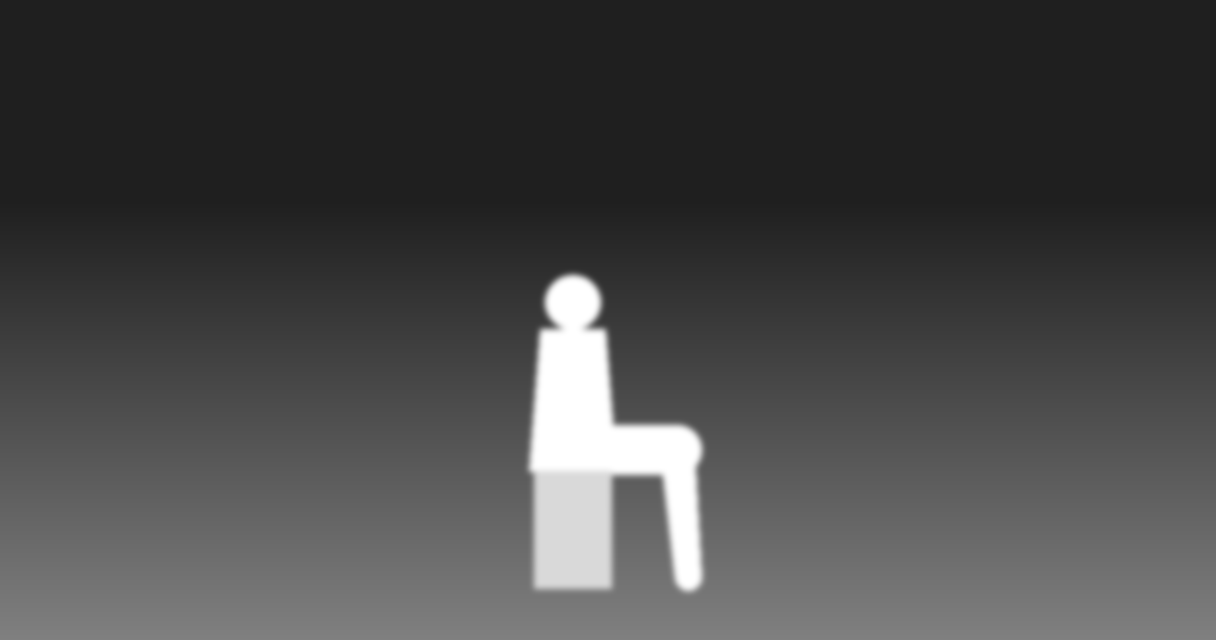
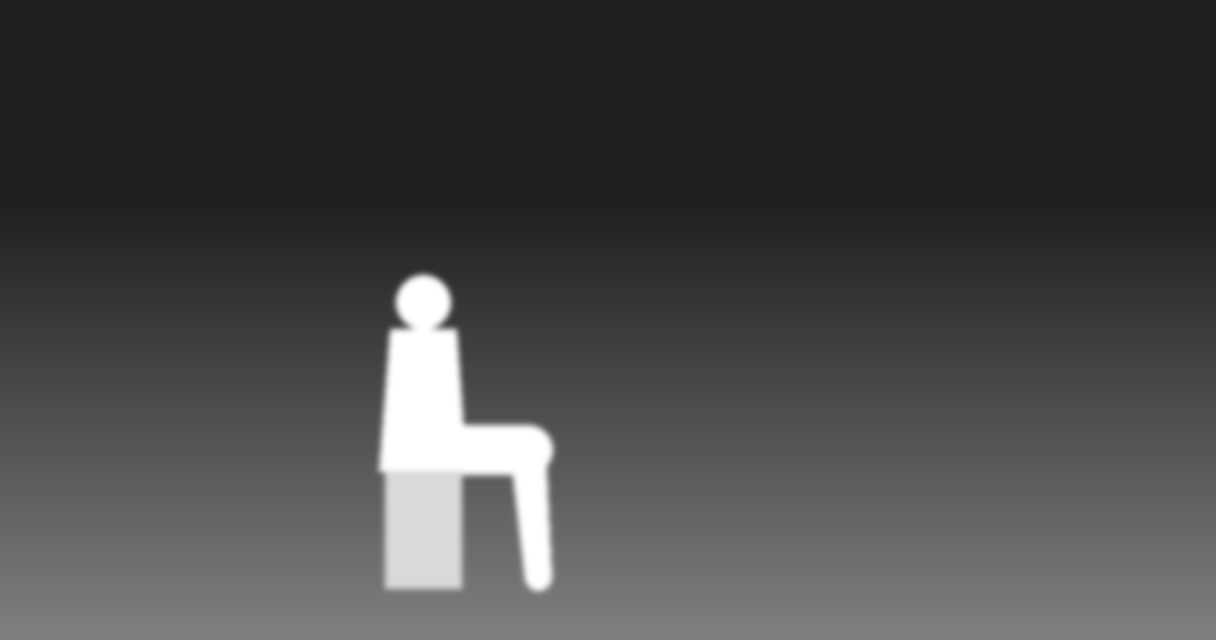
feat(canon): task 424 ① 규칙 spec.solo-off-center — 홀로 있는 인물은 가운데 말고 3분의 1 · 곁 장면 자르기는 명세 구도대로
- 무리 없이 홀로 있는 인물은 가로 가운데(0.4~0.6) 금지 — 가운데 정면 홀로 아기를 안은 구도가 성모자상 후광을 부름(후광 없음 4/8 두 번)
- 출생 곁 장면 밧세바 구역 0.38~0.62 → 0.257~0.497(보이는 폭의 왼쪽 3분의 1, 오른쪽을 봄) · 자리 낱말 On the left
- inset_try.inset_x0: 틀 가운데 기준으로 자름(인물 가운데 기준이면 비킨 구역도 다시 가운데)
- 시험 2 · 재검 solo-off-center 38/38 · 전 규칙 통과 5/38 그대로

Claude-Session: https://claude.ai/code/session_017xfXg4nsVPZYcUmVMvn4aM

Changed region(s): [[0.3125, 0.4062, 0.5938, 0.9375]]

diff --git a/scripts/canon/recheck.py b/scripts/canon/recheck.py
@@ -433,6 +433,20 @@ def _holds_person(f):
     return h.get("mode") == "hug" and bool(h.get("person"))
 
 
+SOLO_MID = (0.4, 0.6)   # derive_scene._side의 「in the center」 범위와 같음
+
+
+def solo_center_errors(spec):
+    """홀로 있는 인물은 가운데 말고(task 424, 규칙 spec.solo-off-center) — 무리 없이 인물 하나인 명세는 그 구역 가로 가운데가 SOLO_MID 밖.
+    출생 곁 장면: 방 한가운데 홀로 앉아 아기를 가슴에 안은 정면 구도가 성모자상 후광을 부름(후광 없음 4/8 — 가이드 빈자리를 채워도 남음)."""
+    figs = spec.get("figures") or []
+    if len(figs) != 1 or spec.get("crowds"):
+        return []
+    r = spec["regions"][figs[0]["region"]]
+    cx = (r[0] + r[2]) / 2
+    return [f"{figs[0]['region']}: 홀로 있는 인물이 화면 가운데({cx:.2f}) — 보는 쪽 반대편 3분의 1로(가운데 정면 홀로는 성모자상 같은 도상을 부름)"] if SOLO_MID[0] <= cx <= SOLO_MID[1] else []
+
+
 def pose_only_errors(spec):
     """뼈대 가이드는 뼈대만(task 404 g1, 규칙 generate.pose-only-control) — guide.pose가 있으면 guide.control이 "pose"여야 함(깊이 그림을 섞지 않음).
     진단 P1·P2(gibeah-pose-diag): 깊이+뼈대 한 장은 깊이 실루엣을 선 사람으로 그려 뼈대(기운 몸통·든 뒷발)가 약하고, 숙인 다윗 깊이 꼴도 선 채로."""
@@ -690,6 +704,7 @@ SPEC_CHECKS = {
     "recheck.seated_height_errors": lambda spec, ctx: seated_height_errors(spec),
     "recheck.pose_hold_errors": lambda spec, ctx: pose_hold_errors(spec),
     "recheck.inset_errors": lambda spec, ctx: inset_errors(spec),
+    "recheck.solo_center_errors": lambda spec, ctx: solo_center_errors(spec),
     "recheck.pose_only_errors": lambda spec, ctx: pose_only_errors(spec),
     "recheck.split_control_errors": lambda spec, ctx: split_control_errors(spec),
     "recheck.prop_size_errors": lambda spec, ctx: prop_size_errors(spec),

diff --git a/scripts/canon/test_scene_rules.py b/scripts/canon/test_scene_rules.py
@@ -1196,6 +1196,30 @@ class PoseHoldGesture(unittest.TestCase):
         self.assertLess(h.getpixel((int((a0 + a1) / 2 * M.W) + 3, int((b0 + 0.6 * (b1 - b0)) * M.H))), 120)
 
 
+class SoloOffCenter(unittest.TestCase):
+    """spec.solo-off-center(task 424) — 무리 없이 홀로 있는 인물은 가로 가운데(0.4~0.6) 말고 · 곁 장면 자르기는 명세 구도를 지킴."""
+
+    def test_centered_solo_fails(self):
+        import derive_scene as ds
+        s = copy.deepcopy(ds.load("authored-solomon-jerusalem-birth-inset"))
+        self.assertEqual(recheck.solo_center_errors(s), [])
+        s["regions"]["bathsheba"] = [0.38, 0.43, 0.62, 0.92]
+        self.assertTrue(recheck.solo_center_errors(s))
+        s["crowds"] = [{"id": "x"}]
+        self.assertEqual(recheck.solo_center_errors(s), [])
+
+    def test_inset_crop_keeps_left_third(self):
+        """자른 곁 그림에서도 밧세바(오른쪽을 봄)가 왼쪽 3분의 1 — 인물 가운데로 자르면 다시 가운데(0.5)."""
+        import sys
+        import derive_scene as ds
+        sys.path.insert(0, os.path.join(HERE, "batch"))
+        import inset_try as B
+        w = B.inset_w(ds.load("authored-solomon-jerusalem-birth"))
+        r = ds.load("authored-solomon-jerusalem-birth-inset")["regions"]["bathsheba"]
+        rel = ((r[0] + r[2]) / 2 * B.W - B.inset_x0(w)) / w
+        self.assertLess(abs(rel - 1 / 3), 0.02)
+
+
 class SitFacing(unittest.TestCase):
     """task 417 — make_guide sit 꼴은 인물 screen_facing을 따름(오른쪽이면 상자 안 좌우 대칭)."""
 

diff --git a/scripts/canon/batch/inset_try.py b/scripts/canon/batch/inset_try.py
@@ -51,9 +51,7 @@ def gen():
         w = W
         if sid == sub:   # 곁 장면은 구름 틀 비율로 그림 — 넓은 화면에 앉은 한 사람이면 빈자리에 다른 사람을 그려 넣음(s42 곁에 선 여인, 문구를 바꿔도 남음)
             w = inset_w(spec)
-            rs = [r for k, r in D.load(sid)["regions"].items() if k != "full"]
-            cx = sum((r[0] + r[2]) / 2 for r in rs) / len(rs) * W   # 인물 구역 가운데를 중심으로 자름(출생 곁 장면은 0.5 — 전과 같음)
-            x0 = min(max(0, round(cx - w / 2)), W - w)
+            x0 = inset_x0(w)
             # make_guide sit 꼴이 screen_facing을 따름(task 417 — 전엔 여기서 좌우를 뒤집음) · 스텝별 두 장도 같이 자름(task 424 — 곁 장면 뼈대)
             guides = [_crop(g, x0, w) for g in guides]
         cn = {"control": guides[0], **CN}
@@ -70,6 +68,11 @@ def _crop(path, x0, w):
     out = os.path.join(OUT, f"_{os.path.basename(path)[:-4]}-flip-{w}.png")
     Image.open(path).convert("RGB").crop((x0, 0, x0 + w, H)).save(out)
     return out
+
+
+def inset_x0(w):
+    """곁 장면 가이드를 자를 왼끝 — 틀 가운데를 중심으로, 명세 구도(인물 자리)를 지킴(task 424: 인물 가운데 기준이면 비킨 구역도 다시 가운데로 · 규칙 spec.solo-off-center)."""
+    return round((W - w) / 2)
 
 
 def inset_w(spec):

diff --git a/scripts/canon/notes/RECHECK.md b/scripts/canon/notes/RECHECK.md
@@ -12,7 +12,7 @@
 ## 명세 재검 — 전 명세 × 명세·파생 함수 규칙
 
 <!-- recheck:specs:begin -->
-원장 판 `a7d77218da31` · 토큰 검사 venv314 · 명세 38
+원장 판 `78d1dfd7d8cd` · 토큰 검사 venv314 · 명세 38
 
 | 규칙 | 층 | 원래 범위 | 통과 | 실패 | 못 잼 | 통과율 |
 |---|---|---|---|---|---|---|
@@ -53,52 +53,53 @@
 | `derive.held-hold` | derive | all | 38 | 0 | 0 | 100% |
 | `derive.crowd-stage` | derive | all | 37 | 1 | 0 | 97% |
 | `generate.eye-level-perspective` | generate | all | 18 | 0 | 20 | 100% |
+| `spec.solo-off-center` | spec | all | 38 | 0 | 0 | 100% |
 | `spec.inset` | spec | all | 38 | 0 | 0 | 100% |
 
 폐기 규칙(재검·통과율에서 뺌): `derive.clip-77-tokens` — 2026-10-22 사람 결정 — SDXL 단계별 경로 전용, 지금 생성 경로는 derive.512-tokens가 잼 · `generate.pose-throw-geometry` — 2026-10-23 d3 — 한 장(c14 s5) 근거로 만든 규칙: d1 「달리는 자세」·d2 「늘어진 팔」로 반증, c10 뼈대가 묶음 기록상 가장 좋음(던진 몸짓 3/8). 결함을 규칙으로 옮기기 전에 같은 조건에서 맞게 나온 적이 있는지 기록부터 볼 것 · `generate.pose-only-control` — 2026-10-23 g2e — 진단은 맞음(뼈대만이면 몸짓이 살아 다윗 숙임·사울 기욺)이나 맞바꿈: 몸 덩어리·벽 자리·수금 모양을 잃고 액자(g1e 다수결 틀림 6 · g2e 15 vs 섞은 f6e3 2). 깊이+뼈대 섞기 유지, make_pose_only·duck_low는 남김 · `generate.spear-two-thirds` — 2026-10-23 m5 — generate.flight-position(명세 칸 guide.flight + 사전 크기)로 일반화(사람 「지적한거 그대로 일회성으로 쓰지말고 규칙화」)
 
-**전 규칙 통과 명세 5/38** · 칸 통과 1207/1333 (91%)
+**전 규칙 통과 명세 5/38** · 칸 통과 1245/1371 (91%)
 
-| 명세 | required-fields | whole-fields | verse-elements | no-compromise-words | scene-all-verses | cast-card-v2 | lexicon-link | no-hand-prompt | no-bare-head | prop-in-prompt | 512-tokens | stage-from-scripture | action-place-on-figure | thrown-guide | guide-backdrop | guide-body-build | dodge-clear | guide-costume-legs | youth-noun | pose-skeleton | figure-scale | no-second-point | youth-height | height-ratio | seated-height | pose-hold | split-control | prop-size-relative | flight-position | flight-height | empty-hand-open | wall-material | no-inflating-build | prop-size-coverage | held-hold | crowd-stage | eye-level-perspective | inset |
-|---|---|---|---|---|---|---|---|---|---|---|---|---|---|---|---|---|---|---|---|---|---|---|---|---|---|---|---|---|---|---|---|---|---|---|---|---|---|---|
-| david-adullam-cave | ✅ | ✗ | ✗ | ✅ | ✗ | ✅ | – | ✅ | ✅ | ✅ | ✅ | ✗ | – | ✅ | ✅ | ✅ | ✅ | ✅ | ✅ | ✅ | – | ✅ | ✅ | ✅ | ✅ | ✅ | ✅ | ✅ | ✅ | ✅ | ✅ | ✅ | ✅ | ✅ | ✅ | ✗ | – | ✅ |
-| david-ark-jerusalem | ✅ | ✗ | ✅ | ✅ | ✗ | ✅ | ✗ | ✅ | ✅ | ✅ | ✅ | ✗ | ✅ | ✅ | ✅ | ✅ | ✅ | ✅ | ✅ | ✅ | – | ✅ | ✅ | ✅ | ✅ | ✅ | ✅ | ✅ | ✅ | ✅ | ✅ | ✅ | ✅ | ✅ | ✅ | ✅ | – | ✅ |
-| david-en-gedi-saul | ✅ | ✅ | ✗ | ✅ | ✗ | ✅ | – | ✅ | ✅ | ✅ | ✅ | ✗ | – | ✅ | ✅ | ✅ | ✅ | ✅ | ✅ | ✅ | – | ✅ | ✅ | – | ✅ | ✅ | ✅ | ✅ | ✅ | ✅ | ✅ | ✅ | ✗ | ✅ | ✅ | ✅ | – | ✅ |
-| david-gath-achish | ✅ | ✅ | ✅ | ✅ | ✗ | ✅ | ✅ | ✅ | ✅ | ✅ | ✅ | ✗ | ✅ | ✅ | ✅ | ✅ | ✅ | ✅ | ✅ | ✅ | – | ✅ | ✅ | – | ✅ | ✅ | ✅ | ✅ | ✅ | ✅ | ✅ | ✅ | ✅ | ✅ | ✅ | ✅ | ✅ | ✅ |
-| david-gibeah-harp | ✅ | ✅ | ✅ | ✅ | ✅ | ✅ | ✅ | ✅ | ✅ | ✅ | ✅ | ✅ | ✅ | ✅ | ✅ | ✅ | ✅ | ✅ | ✅ | ✅ | ✅ | ✅ | ✅ | ✅ | ✅ | ✅ | ✅ | ✅ | ✅ | ✅ | ✅ | ✅ | ✅ | ✅ | ✅ | ✅ | ✅ | ✅ |
-| david-gibeon-battle | ✅ | ✗ | ✅ | ✅ | ✗ | ✅ | ✅ | ✅ | ✅ | ✅ | ✅ | ✗ | ✅ | ✅ | ✅ | ✅ | ✅ | ✅ | ✅ | ✅ | – | ✅ | ✅ | – | ✅ | ✅ | ✅ | ✅ | ✅ | ✅ | ✅ | ✅ | ✅ | ✅ | ✅ | ✅ | – | ✅ |
-| david-goliath-gath | ✅ | ✅ | ✗ | ✅ | ✗ | ✅ | – | ✅ | ✅ | ✗ | ✅ | ✗ | – | ✅ | ✅ | ✅ | ✅ | ✅ | ✅ | ✅ | – | ✅ | – | – | ✅ | ✅ | ✅ | ✅ | ✅ | ✅ | ✅ | ✅ | ✅ | ✅ | ✅ | ✅ | – | ✅ |
-| david-hebron-king-judah | ✅ | ✗ | ✅ | ✅ | ✗ | ✅ | ✅ | ✅ | ✅ | ✅ | ✅ | ✗ | ✅ | ✅ | ✅ | ✅ | ✅ | ✅ | ✅ | ✅ | – | ✅ | ✅ | ✅ | ✅ | ✅ | ✅ | ✅ | ✅ | ✅ | ✅ | ✅ | ✅ | ✅ | ✅ | ✅ | – | ✅ |
-| david-jerusalem-conquest | ✅ | ✗ | ✅ | ✅ | ✗ | ✅ | ✅ | ✅ | ✅ | ✅ | ✅ | ✗ | ✅ | ✅ | ✅ | ✅ | ✅ | ✅ | ✅ | ✅ | – | ✅ | ✅ | ✅ | ✅ | ✅ | ✅ | ✅ | ✅ | ✅ | ✅ | ✅ | ✗ | ✅ | ✅ | ✅ | – | ✅ |
-| david-mahanaim-exile | ✅ | ✗ | ✅ | ✅ | ✗ | ✅ | ✅ | ✅ | ✅ | ✅ | ✅ | ✗ | ✅ | ✅ | ✅ | ✅ | ✅ | ✅ | ✅ | ✅ | – | ✅ | ✅ | ✅ | ✅ | ✅ | ✅ | ✅ | ✅ | ✅ | ✅ | ✅ | ✅ | ✅ | ✅ | ✅ | – | ✅ |
-| david-nathan-covenant | ✅ | ✗ | ✅ | ✅ | ✗ | ✅ | ✅ | ✅ | ✅ | ✅ | ✅ | ✗ | ✅ | ✅ | ✅ | ✅ | ✅ | ✅ | ✅ | ✅ | – | ✅ | ✅ | – | ✅ | ✅ | ✅ | ✅ | ✅ | ✅ | ✅ | ✅ | ✅ | ✅ | ✅ | ✅ | ✅ | ✅ |
-| david-nob-priests | ✅ | ✅ | ✅ | ✅ | ✗ | ✅ | ✗ | ✅ | ✅ | ✅ | ✅ | ✗ | ✅ | ✅ | ✅ | ✅ | ✅ | ✅ | ✅ | ✅ | – | ✅ | ✅ | – | ✅ | ✅ | ✅ | ✗ | ✅ | ✅ | ✅ | ✅ | ✗ | ✅ | ✅ | ✅ | ✅ | ✅ |
-| david-ramah-samuel | ✅ | ✅ | ✅ | ✅ | ✗ | ✅ | ✅ | ✅ | ✅ | ✅ | ✅ | ✗ | ✅ | ✅ | ✅ | ✅ | ✅ | ✅ | ✅ | ✅ | – | ✅ | ✅ | – | ✅ | ✅ | ✅ | ✅ | ✅ | ✅ | ✅ | ✅ | ✅ | ✅ | ✅ | ✅ | ✅ | ✅ |
-| david-returns-jerusalem | ✅ | ✅ | ✅ | ✅ | ✅ | ✅ | ✅ | ✅ | ✅ | ✅ | ✅ | ✗ | ✅ | ✅ | ✅ | ✗ | ✅ | ✅ | ✅ | ✅ | ✅ | ✅ | ✅ | ✅ | ✅ | ✅ | ✅ | ✗ | ✅ | ✅ | ✅ | ✅ | ✅ | ✅ | ✅ | ✅ | ✅ | ✅ |
-| david-ziklag-base | ✅ | ✗ | ✅ | ✅ | ✗ | ✅ | ✅ | ✅ | ✅ | ✅ | ✅ | ✗ | ✅ | ✅ | ✅ | ✅ | ✅ | ✅ | ✅ | ✅ | – | ✅ | ✅ | – | ✅ | ✅ | ✅ | ✅ | ✅ | ✅ | ✅ | ✅ | ✅ | ✅ | ✅ | ✅ | ✅ | ✅ |
-| samuel-bethlehem-david-anointing | ✅ | ✗ | ✅ | ✅ | ✗ | ✅ | ✗ | ✅ | ✅ | ✅ | ✅ | ✗ | ✅ | ✅ | ✅ | ✅ | ✅ | ✅ | ✅ | ✅ | – | ✅ | – | – | ✅ | ✅ | ✅ | ✗ | ✅ | ✅ | ✅ | ✅ | ✅ | ✅ | ✅ | ✅ | – | ✅ |
-| samuel-ramah-death | ✅ | ✅ | ✗ | ✅ | ✗ | ✅ | – | ✅ | ✅ | ✅ | ✅ | ✗ | – | ✅ | ✅ | ✅ | ✅ | ✅ | ✅ | ✅ | – | ✅ | ✅ | ✅ | ✅ | ✅ | ✅ | ✅ | ✅ | ✅ | ✅ | ✅ | ✅ | ✅ | ✅ | ✅ | – | ✅ |
-| saul-endor-medium | ✅ | ✗ | ✅ | ✅ | ✗ | ✅ | ✅ | ✅ | ✅ | ✅ | ✅ | ✗ | ✅ | ✅ | ✅ | ✅ | ✅ | ✅ | ✅ | ✅ | – | ✅ | ✅ | – | ✅ | ✅ | ✅ | ✅ | ✅ | ✅ | ✅ | ✅ | ✅ | ✅ | ✅ | ✅ | – | ✅ |
-| saul-gibeah-spear | ✅ | ✅ | ✅ | ✅ | ✅ | ✅ | ✅ | ✅ | ✅ | ✅ | ✅ | ✅ | ✅ | ✅ | ✅ | ✅ | ✅ | ✅ | ✅ | ✅ | ✅ | ✅ | ✅ | ✅ | ✅ | ✅ | ✅ | ✅ | ✅ | ✅ | ✅ | ✅ | ✅ | ✅ | ✅ | ✅ | ✅ | ✅ |
-| saul-gilboa-death | ✅ | ✗ | ✅ | ✅ | ✗ | ✅ | ✅ | ✅ | ✅ | ✅ | ✅ | ✗ | ✅ | ✅ | ✅ | ✅ | ✅ | ✅ | ✅ | ✅ | – | ✅ | ✅ | – | ✅ | ✅ | ✅ | ✅ | ✅ | ✅ | ✅ | ✅ | ✅ | ✅ | ✅ | ✅ | – | ✅ |
-| saul-gilgal-amalek | ✅ | ✅ | ✗ | ✅ | ✗ | ✅ | – | ✅ | ✅ | ✅ | ✅ | ✗ | – | ✅ | ✅ | ✅ | ✅ | ✅ | ✅ | ✅ | – | ✅ | ✅ | – | ✅ | ✅ | ✅ | ✅ | ✅ | ✅ | ✅ | ✅ | ✗ | ✅ | ✅ | ✅ | ✅ | ✅ |
-| saul-gilgal-coronation | ✅ | ✅ | ✗ | ✅ | ✗ | ✅ | – | ✅ | ✅ | ✅ | ✅ | ✗ | – | ✅ | ✅ | ✅ | ✅ | ✅ | ✅ | ✅ | – | ✅ | ✅ | – | ✅ | ✅ | ✅ | ✅ | ✅ | ✅ | ✅ | ✅ | ✗ | ✅ | ✅ | ✅ | – | ✅ |
-| saul-jabesh-rescue | ✅ | ✅ | ✗ | ✅ | ✗ | ✅ | – | ✅ | ✅ | ✅ | ✅ | ✗ | – | ✅ | ✅ | ✅ | ✅ | ✅ | ✅ | ✅ | – | ✅ | ✅ | ✅ | ✅ | ✅ | ✅ | ✅ | ✅ | ✅ | ✅ | ✅ | ✗ | ✅ | ✅ | ✅ | – | ✅ |
-| saul-michmash-battle | ✅ | ✗ | ✗ | ✅ | ✗ | ✅ | – | ✅ | ✅ | ✅ | ✅ | ✗ | – | ✅ | ✅ | ✅ | ✅ | ✅ | ✅ | ✅ | – | ✅ | ✅ | – | ✅ | ✅ | ✅ | ✅ | ✅ | ✅ | ✅ | ✅ | ✗ | ✅ | ✅ | ✅ | – | ✅ |
-| saul-mizpah-chosen | ✅ | ✗ | ✗ | ✅ | ✗ | ✅ | – | ✅ | ✅ | ✅ | ✅ | ✗ | – | ✅ | ✅ | ✅ | ✅ | ✅ | ✅ | ✅ | – | ✅ | ✅ | – | ✅ | ✅ | ✅ | ✅ | ✅ | ✅ | ✅ | ✅ | ✗ | ✅ | ✅ | ✅ | – | ✅ |
-| saul-nob-massacre | ✅ | ✅ | ✗ | ✅ | ✗ | ✅ | – | ✅ | ✅ | ✅ | ✅ | ✗ | – | ✅ | ✅ | ✅ | ✅ | ✅ | ✅ | ✅ | – | ✅ | ✅ | – | ✅ | ✅ | ✅ | ✅ | ✅ | ✅ | ✅ | ✅ | ✗ | ✅ | ✅ | ✅ | ✅ | ✅ |
-| solomon-ezion-geber-fleet | ✅ | ✗ | ✗ | ✅ | ✗ | ✅ | – | ✅ | ✅ | ✗ | ✅ | ✗ | – | ✅ | ✅ | ✅ | ✅ | ✅ | ✅ | ✅ | – | ✅ | ✅ | ✅ | ✅ | ✅ | ✅ | ✅ | ✅ | ✅ | ✅ | ✅ | ✅ | ✅ | ✅ | ✅ | ✅ | ✅ |
-| solomon-gibeon-dream | ✅ | ✗ | ✗ | ✅ | ✗ | ✅ | – | ✅ | ✅ | ✗ | ✅ | ✗ | – | ✅ | ✅ | ✅ | ✅ | ✅ | ✅ | ✅ | – | ✅ | ✅ | ✅ | ✅ | ✅ | ✅ | ✅ | ✅ | ✅ | ✅ | ✅ | ✅ | ✅ | ✅ | ✅ | ✅ | ✅ |
-| solomon-gihon-anointing | ✅ | ✗ | ✗ | ✅ | ✗ | ✅ | – | ✅ | ✅ | ✅ | ✅ | ✗ | – | ✅ | ✅ | ✅ | ✅ | ✅ | ✅ | ✅ | – | ✅ | ✅ | – | ✅ | ✅ | ✅ | ✅ | ✅ | ✅ | ✅ | ✅ | ✅ | ✅ | ✅ | ✅ | – | ✅ |
-| solomon-jerusalem-apostasy | ✅ | ✅ | ✗ | ✅ | ✅ | ✅ | – | ✅ | ✅ | ✅ | ✅ | ✗ | – | ✅ | ✅ | ✅ | ✅ | ✅ | ✅ | ✅ | – | ✅ | ✅ | ✅ | ✅ | ✅ | ✅ | ✅ | ✅ | ✅ | ✅ | ✅ | ✅ | ✅ | ✅ | ✅ | – | ✅ |
-| solomon-jerusalem-birth | ✅ | ✅ | ✅ | ✅ | ✅ | ✅ | ✅ | ✅ | ✅ | ✅ | ✅ | ✅ | ✅ | ✅ | ✅ | ✅ | ✅ | ✅ | ✅ | ✅ | ✅ | ✅ | ✅ | ✅ | ✅ | ✅ | ✅ | ✅ | ✅ | ✅ | ✅ | ✅ | ✅ | ✅ | ✅ | ✅ | ✅ | ✅ |
-| solomon-jerusalem-birth-inset | ✅ | ✅ | ✅ | ✅ | ✅ | ✅ | ✅ | ✅ | ✅ | ✅ | ✅ | ✅ | ✅ | ✅ | ✅ | ✅ | ✅ | ✅ | ✅ | ✅ | ✅ | ✅ | ✅ | ✅ | ✅ | ✅ | ✅ | ✅ | ✅ | ✅ | ✅ | ✅ | ✅ | ✅ | ✅ | ✅ | ✅ | ✅ |
-| solomon-jerusalem-david-charge | ✅ | ✗ | ✗ | ✅ | ✗ | ✅ | – | ✅ | ✅ | ✗ | ✅ | ✗ | – | ✅ | ✅ | ✅ | ✅ | ✅ | ✅ | ✅ | – | ✅ | ✅ | – | ✅ | ✅ | ✅ | ✅ | ✅ | ✅ | ✅ | ✅ | ✅ | ✅ | ✅ | ✅ | ✅ | ✅ |
-| solomon-jerusalem-palace | ✅ | ✗ | ✗ | ✅ | ✗ | ✅ | – | ✅ | ✅ | ✗ | ✅ | ✗ | – | ✅ | ✅ | ✅ | ✅ | ✅ | ✅ | ✅ | – | ✅ | ✅ | ✅ | ✅ | ✅ | ✅ | ✅ | ✅ | ✅ | ✅ | ✅ | ✅ | ✅ | ✅ | ✅ | ✅ | ✅ |
-| solomon-jerusalem-sheba | ✅ | ✗ | ✗ | ✅ | ✗ | ✅ | – | ✅ | ✅ | ✗ | ✅ | ✗ | – | ✅ | ✅ | ✅ | ✅ | ✅ | ✅ | ✅ | – | ✅ | ✅ | – | ✅ | ✅ | ✅ | ✅ | ✅ | ✅ | ✅ | ✅ | ✅ | ✅ | ✅ | ✅ | ✅ | ✅ |
-| solomon-jerusalem-temple-build | ✅ | ✅ | ✗ | ✅ | ✅ | ✅ | – | ✅ | ✅ | ✅ | ✅ | ✗ | – | ✅ | ✅ | ✅ | ✅ | ✅ | ✅ | ✅ | – | ✅ | ✅ | ✅ | ✅ | ✅ | ✅ | ✅ | ✅ | ✅ | ✅ | ✅ | ✅ | ✅ | ✅ | ✅ | – | ✅ |
-| solomon-jerusalem-temple-dedication | ✅ | ✗ | ✗ | ✅ | ✗ | ✅ | – | ✅ | ✅ | ✗ | ✅ | ✗ | – | ✅ | ✅ | ✅ | ✅ | ✅ | ✅ | ✅ | – | ✅ | ✅ | ✅ | ✅ | ✅ | ✅ | ✅ | ✅ | ✅ | ✅ | ✅ | ✅ | ✅ | ✅ | ✅ | – | ✅ |
-| solomon-jerusalem-two-mothers | ✅ | ✅ | ✅ | ✅ | ✅ | ✅ | ✅ | ✅ | ✅ | ✅ | ✅ | ✅ | ✅ | ✅ | ✅ | ✅ | ✅ | ✅ | ✅ | ✅ | ✅ | ✅ | ✅ | ✅ | ✅ | ✅ | ✅ | ✅ | ✅ | ✅ | ✅ | ✅ | ✅ | ✅ | ✅ | ✅ | ✅ | ✅ |
+| 명세 | required-fields | whole-fields | verse-elements | no-compromise-words | scene-all-verses | cast-card-v2 | lexicon-link | no-hand-prompt | no-bare-head | prop-in-prompt | 512-tokens | stage-from-scripture | action-place-on-figure | thrown-guide | guide-backdrop | guide-body-build | dodge-clear | guide-costume-legs | youth-noun | pose-skeleton | figure-scale | no-second-point | youth-height | height-ratio | seated-height | pose-hold | split-control | prop-size-relative | flight-position | flight-height | empty-hand-open | wall-material | no-inflating-build | prop-size-coverage | held-hold | crowd-stage | eye-level-perspective | solo-off-center | inset |
+|---|---|---|---|---|---|---|---|---|---|---|---|---|---|---|---|---|---|---|---|---|---|---|---|---|---|---|---|---|---|---|---|---|---|---|---|---|---|---|---|
+| david-adullam-cave | ✅ | ✗ | ✗ | ✅ | ✗ | ✅ | – | ✅ | ✅ | ✅ | ✅ | ✗ | – | ✅ | ✅ | ✅ | ✅ | ✅ | ✅ | ✅ | – | ✅ | ✅ | ✅ | ✅ | ✅ | ✅ | ✅ | ✅ | ✅ | ✅ | ✅ | ✅ | ✅ | ✅ | ✗ | – | ✅ | ✅ |
+| david-ark-jerusalem | ✅ | ✗ | ✅ | ✅ | ✗ | ✅ | ✗ | ✅ | ✅ | ✅ | ✅ | ✗ | ✅ | ✅ | ✅ | ✅ | ✅ | ✅ | ✅ | ✅ | – | ✅ | ✅ | ✅ | ✅ | ✅ | ✅ | ✅ | ✅ | ✅ | ✅ | ✅ | ✅ | ✅ | ✅ | ✅ | – | ✅ | ✅ |
+| david-en-gedi-saul | ✅ | ✅ | ✗ | ✅ | ✗ | ✅ | – | ✅ | ✅ | ✅ | ✅ | ✗ | – | ✅ | ✅ | ✅ | ✅ | ✅ | ✅ | ✅ | – | ✅ | ✅ | – | ✅ | ✅ | ✅ | ✅ | ✅ | ✅ | ✅ | ✅ | ✗ | ✅ | ✅ | ✅ | – | ✅ | ✅ |
+| david-gath-achish | ✅ | ✅ | ✅ | ✅ | ✗ | ✅ | ✅ | ✅ | ✅ | ✅ | ✅ | ✗ | ✅ | ✅ | ✅ | ✅ | ✅ | ✅ | ✅ | ✅ | – | ✅ | ✅ | – | ✅ | ✅ | ✅ | ✅ | ✅ | ✅ | ✅ | ✅ | ✅ | ✅ | ✅ | ✅ | ✅ | ✅ | ✅ |
+| david-gibeah-harp | ✅ | ✅ | ✅ | ✅ | ✅ | ✅ | ✅ | ✅ | ✅ | ✅ | ✅ | ✅ | ✅ | ✅ | ✅ | ✅ | ✅ | ✅ | ✅ | ✅ | ✅ | ✅ | ✅ | ✅ | ✅ | ✅ | ✅ | ✅ | ✅ | ✅ | ✅ | ✅ | ✅ | ✅ | ✅ | ✅ | ✅ | ✅ | ✅ |
+| david-gibeon-battle | ✅ | ✗ | ✅ | ✅ | ✗ | ✅ | ✅ | ✅ | ✅ | ✅ | ✅ | ✗ | ✅ | ✅ | ✅ | ✅ | ✅ | ✅ | ✅ | ✅ | – | ✅ | ✅ | – | ✅ | ✅ | ✅ | ✅ | ✅ | ✅ | ✅ | ✅ | ✅ | ✅ | ✅ | ✅ | – | ✅ | ✅ |
+| david-goliath-gath | ✅ | ✅ | ✗ | ✅ | ✗ | ✅ | – | ✅ | ✅ | ✗ | ✅ | ✗ | – | ✅ | ✅ | ✅ | ✅ | ✅ | ✅ | ✅ | – | ✅ | – | – | ✅ | ✅ | ✅ | ✅ | ✅ | ✅ | ✅ | ✅ | ✅ | ✅ | ✅ | ✅ | – | ✅ | ✅ |
+| david-hebron-king-judah | ✅ | ✗ | ✅ | ✅ | ✗ | ✅ | ✅ | ✅ | ✅ | ✅ | ✅ | ✗ | ✅ | ✅ | ✅ | ✅ | ✅ | ✅ | ✅ | ✅ | – | ✅ | ✅ | ✅ | ✅ | ✅ | ✅ | ✅ | ✅ | ✅ | ✅ | ✅ | ✅ | ✅ | ✅ | ✅ | – | ✅ | ✅ |
+| david-jerusalem-conquest | ✅ | ✗ | ✅ | ✅ | ✗ | ✅ | ✅ | ✅ | ✅ | ✅ | ✅ | ✗ | ✅ | ✅ | ✅ | ✅ | ✅ | ✅ | ✅ | ✅ | – | ✅ | ✅ | ✅ | ✅ | ✅ | ✅ | ✅ | ✅ | ✅ | ✅ | ✅ | ✗ | ✅ | ✅ | ✅ | – | ✅ | ✅ |
+| david-mahanaim-exile | ✅ | ✗ | ✅ | ✅ | ✗ | ✅ | ✅ | ✅ | ✅ | ✅ | ✅ | ✗ | ✅ | ✅ | ✅ | ✅ | ✅ | ✅ | ✅ | ✅ | – | ✅ | ✅ | ✅ | ✅ | ✅ | ✅ | ✅ | ✅ | ✅ | ✅ | ✅ | ✅ | ✅ | ✅ | ✅ | – | ✅ | ✅ |
+| david-nathan-covenant | ✅ | ✗ | ✅ | ✅ | ✗ | ✅ | ✅ | ✅ | ✅ | ✅ | ✅ | ✗ | ✅ | ✅ | ✅ | ✅ | ✅ | ✅ | ✅ | ✅ | – | ✅ | ✅ | – | ✅ | ✅ | ✅ | ✅ | ✅ | ✅ | ✅ | ✅ | ✅ | ✅ | ✅ | ✅ | ✅ | ✅ | ✅ |
+| david-nob-priests | ✅ | ✅ | ✅ | ✅ | ✗ | ✅ | ✗ | ✅ | ✅ | ✅ | ✅ | ✗ | ✅ | ✅ | ✅ | ✅ | ✅ | ✅ | ✅ | ✅ | – | ✅ | ✅ | – | ✅ | ✅ | ✅ | ✗ | ✅ | ✅ | ✅ | ✅ | ✗ | ✅ | ✅ | ✅ | ✅ | ✅ | ✅ |
+| david-ramah-samuel | ✅ | ✅ | ✅ | ✅ | ✗ | ✅ | ✅ | ✅ | ✅ | ✅ | ✅ | ✗ | ✅ | ✅ | ✅ | ✅ | ✅ | ✅ | ✅ | ✅ | – | ✅ | ✅ | – | ✅ | ✅ | ✅ | ✅ | ✅ | ✅ | ✅ | ✅ | ✅ | ✅ | ✅ | ✅ | ✅ | ✅ | ✅ |
+| david-returns-jerusalem | ✅ | ✅ | ✅ | ✅ | ✅ | ✅ | ✅ | ✅ | ✅ | ✅ | ✅ | ✗ | ✅ | ✅ | ✅ | ✗ | ✅ | ✅ | ✅ | ✅ | ✅ | ✅ | ✅ | ✅ | ✅ | ✅ | ✅ | ✗ | ✅ | ✅ | ✅ | ✅ | ✅ | ✅ | ✅ | ✅ | ✅ | ✅ | ✅ |
+| david-ziklag-base | ✅ | ✗ | ✅ | ✅ | ✗ | ✅ | ✅ | ✅ | ✅ | ✅ | ✅ | ✗ | ✅ | ✅ | ✅ | ✅ | ✅ | ✅ | ✅ | ✅ | – | ✅ | ✅ | – | ✅ | ✅ | ✅ | ✅ | ✅ | ✅ | ✅ | ✅ | ✅ | ✅ | ✅ | ✅ | ✅ | ✅ | ✅ |
+| samuel-bethlehem-david-anointing | ✅ | ✗ | ✅ | ✅ | ✗ | ✅ | ✗ | ✅ | ✅ | ✅ | ✅ | ✗ | ✅ | ✅ | ✅ | ✅ | ✅ | ✅ | ✅ | ✅ | – | ✅ | – | – | ✅ | ✅ | ✅ | ✗ | ✅ | ✅ | ✅ | ✅ | ✅ | ✅ | ✅ | ✅ | – | ✅ | ✅ |
+| samuel-ramah-death | ✅ | ✅ | ✗ | ✅ | ✗ | ✅ | – | ✅ | ✅ | ✅ | ✅ | ✗ | – | ✅ | ✅ | ✅ | ✅ | ✅ | ✅ | ✅ | – | ✅ | ✅ | ✅ | ✅ | ✅ | ✅ | ✅ | ✅ | ✅ | ✅ | ✅ | ✅ | ✅ | ✅ | ✅ | – | ✅ | ✅ |
+| saul-endor-medium | ✅ | ✗ | ✅ | ✅ | ✗ | ✅ | ✅ | ✅ | ✅ | ✅ | ✅ | ✗ | ✅ | ✅ | ✅ | ✅ | ✅ | ✅ | ✅ | ✅ | – | ✅ | ✅ | – | ✅ | ✅ | ✅ | ✅ | ✅ | ✅ | ✅ | ✅ | ✅ | ✅ | ✅ | ✅ | – | ✅ | ✅ |
+| saul-gibeah-spear | ✅ | ✅ | ✅ | ✅ | ✅ | ✅ | ✅ | ✅ | ✅ | ✅ | ✅ | ✅ | ✅ | ✅ | ✅ | ✅ | ✅ | ✅ | ✅ | ✅ | ✅ | ✅ | ✅ | ✅ | ✅ | ✅ | ✅ | ✅ | ✅ | ✅ | ✅ | ✅ | ✅ | ✅ | ✅ | ✅ | ✅ | ✅ | ✅ |
+| saul-gilboa-death | ✅ | ✗ | ✅ | ✅ | ✗ | ✅ | ✅ | ✅ | ✅ | ✅ | ✅ | ✗ | ✅ | ✅ | ✅ | ✅ | ✅ | ✅ | ✅ | ✅ | – | ✅ | ✅ | – | ✅ | ✅ | ✅ | ✅ | ✅ | ✅ | ✅ | ✅ | ✅ | ✅ | ✅ | ✅ | – | ✅ | ✅ |
+| saul-gilgal-amalek | ✅ | ✅ | ✗ | ✅ | ✗ | ✅ | – | ✅ | ✅ | ✅ | ✅ | ✗ | – | ✅ | ✅ | ✅ | ✅ | ✅ | ✅ | ✅ | – | ✅ | ✅ | – | ✅ | ✅ | ✅ | ✅ | ✅ | ✅ | ✅ | ✅ | ✗ | ✅ | ✅ | ✅ | ✅ | ✅ | ✅ |
+| saul-gilgal-coronation | ✅ | ✅ | ✗ | ✅ | ✗ | ✅ | – | ✅ | ✅ | ✅ | ✅ | ✗ | – | ✅ | ✅ | ✅ | ✅ | ✅ | ✅ | ✅ | – | ✅ | ✅ | – | ✅ | ✅ | ✅ | ✅ | ✅ | ✅ | ✅ | ✅ | ✗ | ✅ | ✅ | ✅ | – | ✅ | ✅ |
+| saul-jabesh-rescue | ✅ | ✅ | ✗ | ✅ | ✗ | ✅ | – | ✅ | ✅ | ✅ | ✅ | ✗ | – | ✅ | ✅ | ✅ | ✅ | ✅ | ✅ | ✅ | – | ✅ | ✅ | ✅ | ✅ | ✅ | ✅ | ✅ | ✅ | ✅ | ✅ | ✅ | ✗ | ✅ | ✅ | ✅ | – | ✅ | ✅ |
+| saul-michmash-battle | ✅ | ✗ | ✗ | ✅ | ✗ | ✅ | – | ✅ | ✅ | ✅ | ✅ | ✗ | – | ✅ | ✅ | ✅ | ✅ | ✅ | ✅ | ✅ | – | ✅ | ✅ | – | ✅ | ✅ | ✅ | ✅ | ✅ | ✅ | ✅ | ✅ | ✗ | ✅ | ✅ | ✅ | – | ✅ | ✅ |
+| saul-mizpah-chosen | ✅ | ✗ | ✗ | ✅ | ✗ | ✅ | – | ✅ | ✅ | ✅ | ✅ | ✗ | – | ✅ | ✅ | ✅ | ✅ | ✅ | ✅ | ✅ | – | ✅ | ✅ | – | ✅ | ✅ | ✅ | ✅ | ✅ | ✅ | ✅ | ✅ | ✗ | ✅ | ✅ | ✅ | – | ✅ | ✅ |
+| saul-nob-massacre | ✅ | ✅ | ✗ | ✅ | ✗ | ✅ | – | ✅ | ✅ | ✅ | ✅ | ✗ | – | ✅ | ✅ | ✅ | ✅ | ✅ | ✅ | ✅ | – | ✅ | ✅ | – | ✅ | ✅ | ✅ | ✅ | ✅ | ✅ | ✅ | ✅ | ✗ | ✅ | ✅ | ✅ | ✅ | ✅ | ✅ |
+| solomon-ezion-geber-fleet | ✅ | ✗ | ✗ | ✅ | ✗ | ✅ | – | ✅ | ✅ | ✗ | ✅ | ✗ | – | ✅ | ✅ | ✅ | ✅ | ✅ | ✅ | ✅ | – | ✅ | ✅ | ✅ | ✅ | ✅ | ✅ | ✅ | ✅ | ✅ | ✅ | ✅ | ✅ | ✅ | ✅ | ✅ | ✅ | ✅ | ✅ |
+| solomon-gibeon-dream | ✅ | ✗ | ✗ | ✅ | ✗ | ✅ | – | ✅ | ✅ | ✗ | ✅ | ✗ | – | ✅ | ✅ | ✅ | ✅ | ✅ | ✅ | ✅ | – | ✅ | ✅ | ✅ | ✅ | ✅ | ✅ | ✅ | ✅ | ✅ | ✅ | ✅ | ✅ | ✅ | ✅ | ✅ | ✅ | ✅ | ✅ |
+| solomon-gihon-anointing | ✅ | ✗ | ✗ | ✅ | ✗ | ✅ | – | ✅ | ✅ | ✅ | ✅ | ✗ | – | ✅ | ✅ | ✅ | ✅ | ✅ | ✅ | ✅ | – | ✅ | ✅ | – | ✅ | ✅ | ✅ | ✅ | ✅ | ✅ | ✅ | ✅ | ✅ | ✅ | ✅ | ✅ | – | ✅ | ✅ |
+| solomon-jerusalem-apostasy | ✅ | ✅ | ✗ | ✅ | ✅ | ✅ | – | ✅ | ✅ | ✅ | ✅ | ✗ | – | ✅ | ✅ | ✅ | ✅ | ✅ | ✅ | ✅ | – | ✅ | ✅ | ✅ | ✅ | ✅ | ✅ | ✅ | ✅ | ✅ | ✅ | ✅ | ✅ | ✅ | ✅ | ✅ | – | ✅ | ✅ |
+| solomon-jerusalem-birth | ✅ | ✅ | ✅ | ✅ | ✅ | ✅ | ✅ | ✅ | ✅ | ✅ | ✅ | ✅ | ✅ | ✅ | ✅ | ✅ | ✅ | ✅ | ✅ | ✅ | ✅ | ✅ | ✅ | ✅ | ✅ | ✅ | ✅ | ✅ | ✅ | ✅ | ✅ | ✅ | ✅ | ✅ | ✅ | ✅ | ✅ | ✅ | ✅ |
+| solomon-jerusalem-birth-inset | ✅ | ✅ | ✅ | ✅ | ✅ | ✅ | ✅ | ✅ | ✅ | ✅ | ✅ | ✅ | ✅ | ✅ | ✅ | ✅ | ✅ | ✅ | ✅ | ✅ | ✅ | ✅ | ✅ | ✅ | ✅ | ✅ | ✅ | ✅ | ✅ | ✅ | ✅ | ✅ | ✅ | ✅ | ✅ | ✅ | ✅ | ✅ | ✅ |
+| solomon-jerusalem-david-charge | ✅ | ✗ | ✗ | ✅ | ✗ | ✅ | – | ✅ | ✅ | ✗ | ✅ | ✗ | – | ✅ | ✅ | ✅ | ✅ | ✅ | ✅ | ✅ | – | ✅ | ✅ | – | ✅ | ✅ | ✅ | ✅ | ✅ | ✅ | ✅ | ✅ | ✅ | ✅ | ✅ | ✅ | ✅ | ✅ | ✅ |
+| solomon-jerusalem-palace | ✅ | ✗ | ✗ | ✅ | ✗ | ✅ | – | ✅ | ✅ | ✗ | ✅ | ✗ | – | ✅ | ✅ | ✅ | ✅ | ✅ | ✅ | ✅ | – | ✅ | ✅ | ✅ | ✅ | ✅ | ✅ | ✅ | ✅ | ✅ | ✅ | ✅ | ✅ | ✅ | ✅ | ✅ | ✅ | ✅ | ✅ |
+| solomon-jerusalem-sheba | ✅ | ✗ | ✗ | ✅ | ✗ | ✅ | – | ✅ | ✅ | ✗ | ✅ | ✗ | – | ✅ | ✅ | ✅ | ✅ | ✅ | ✅ | ✅ | – | ✅ | ✅ | – | ✅ | ✅ | ✅ | ✅ | ✅ | ✅ | ✅ | ✅ | ✅ | ✅ | ✅ | ✅ | ✅ | ✅ | ✅ |
+| solomon-jerusalem-temple-build | ✅ | ✅ | ✗ | ✅ | ✅ | ✅ | – | ✅ | ✅ | ✅ | ✅ | ✗ | – | ✅ | ✅ | ✅ | ✅ | ✅ | ✅ | ✅ | – | ✅ | ✅ | ✅ | ✅ | ✅ | ✅ | ✅ | ✅ | ✅ | ✅ | ✅ | ✅ | ✅ | ✅ | ✅ | – | ✅ | ✅ |
+| solomon-jerusalem-temple-dedication | ✅ | ✗ | ✗ | ✅ | ✗ | ✅ | – | ✅ | ✅ | ✗ | ✅ | ✗ | – | ✅ | ✅ | ✅ | ✅ | ✅ | ✅ | ✅ | – | ✅ | ✅ | ✅ | ✅ | ✅ | ✅ | ✅ | ✅ | ✅ | ✅ | ✅ | ✅ | ✅ | ✅ | ✅ | – | ✅ | ✅ |
+| solomon-jerusalem-two-mothers | ✅ | ✅ | ✅ | ✅ | ✅ | ✅ | ✅ | ✅ | ✅ | ✅ | ✅ | ✅ | ✅ | ✅ | ✅ | ✅ | ✅ | ✅ | ✅ | ✅ | ✅ | ✅ | ✅ | ✅ | ✅ | ✅ | ✅ | ✅ | ✅ | ✅ | ✅ | ✅ | ✅ | ✅ | ✅ | ✅ | ✅ | ✅ | ✅ |
 <!-- recheck:specs:end -->
 
 ## 승인 그림 재검 — 승인 그림 × 그림 규칙
